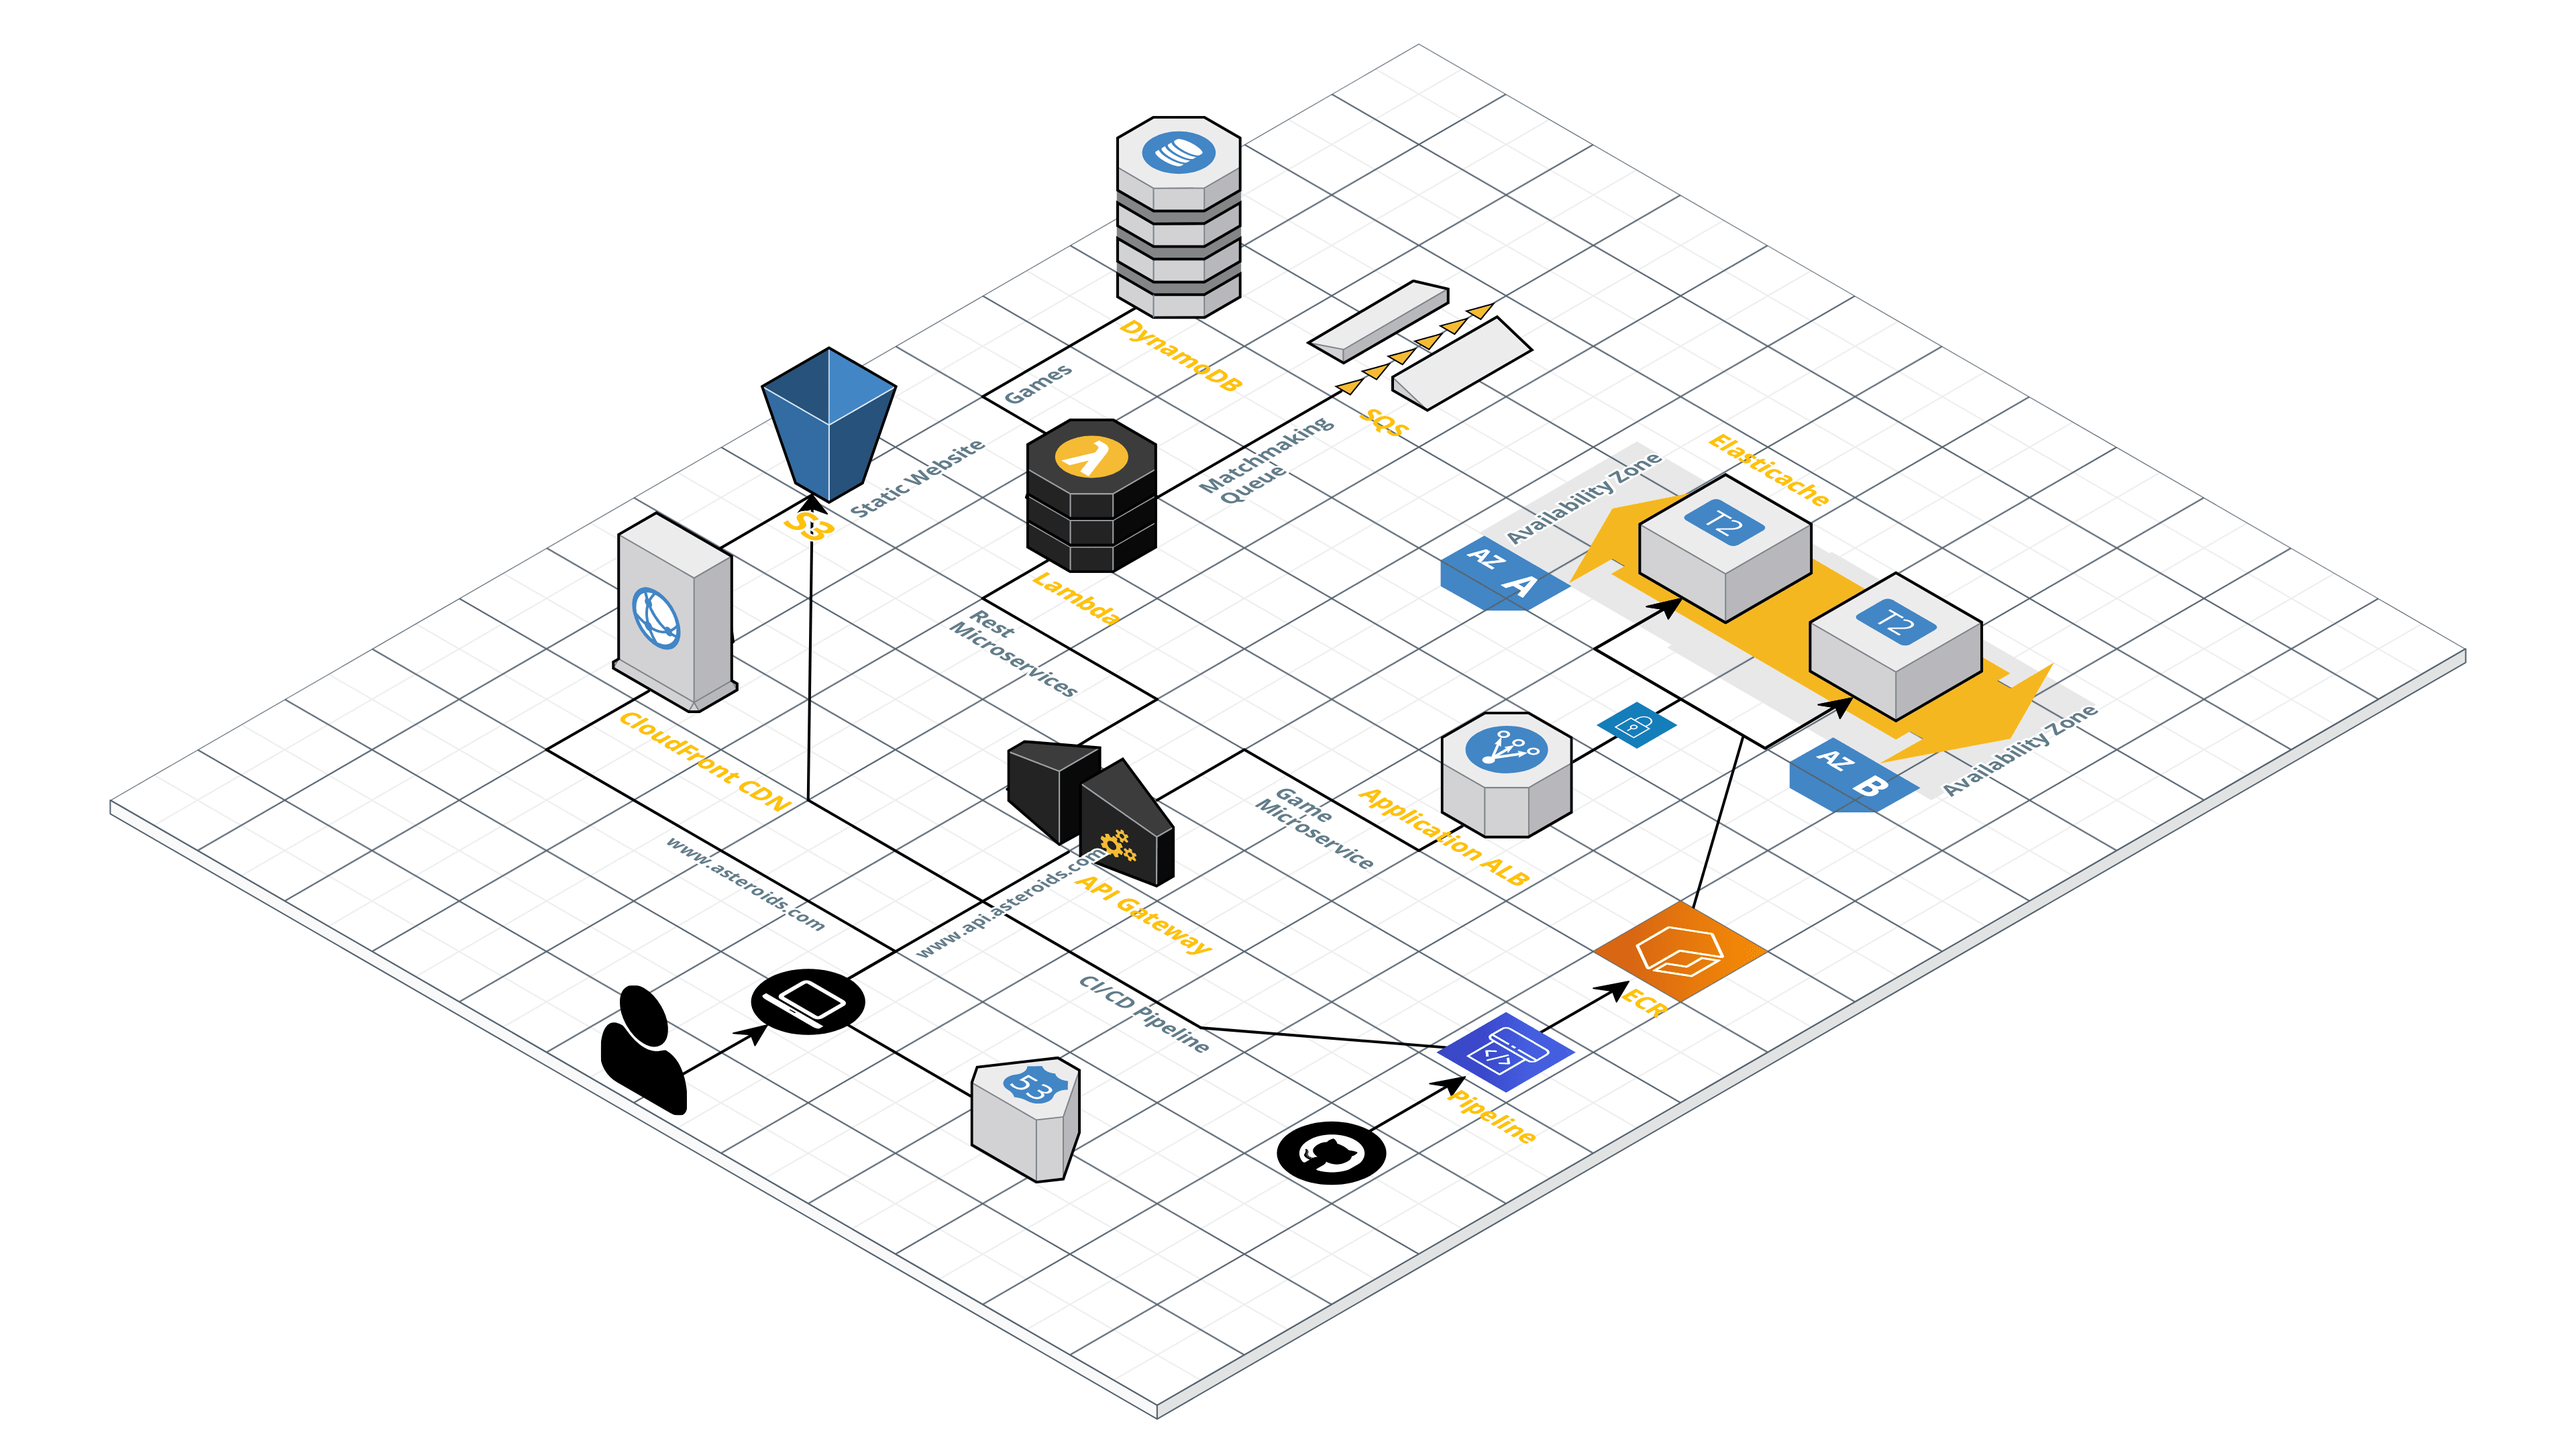
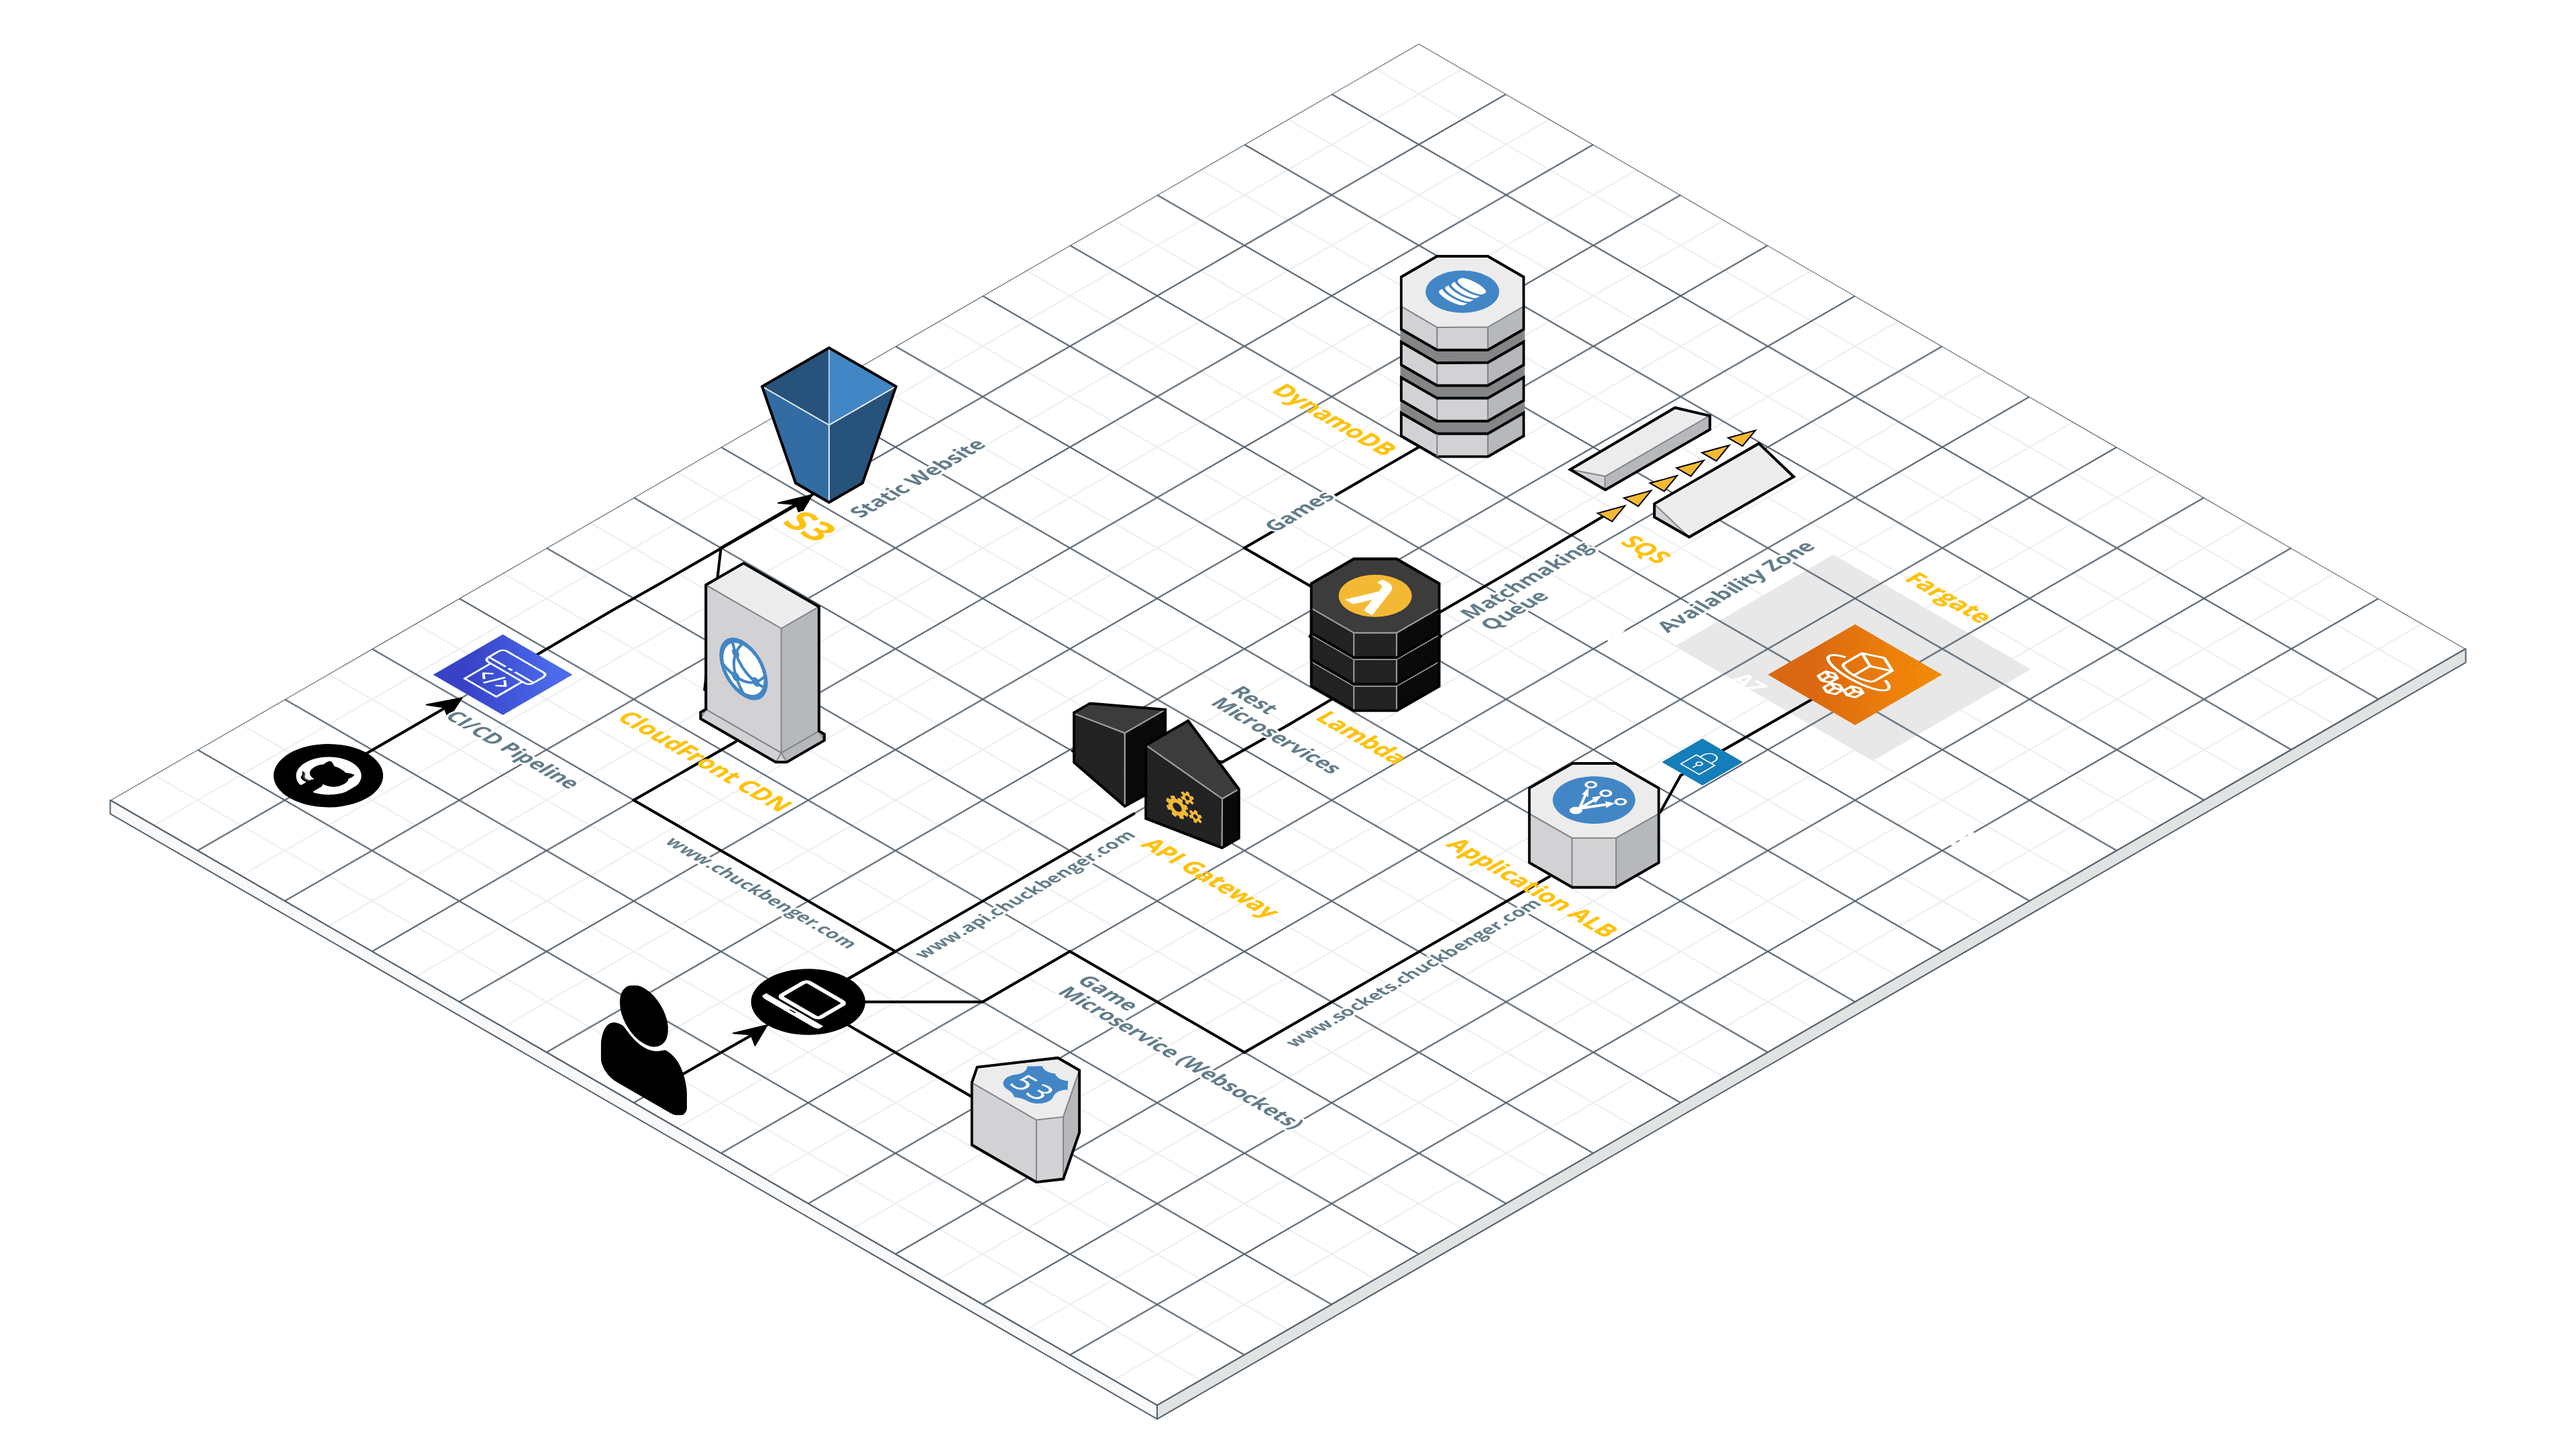
Updates to README

diff --git a/README.md b/README.md
@@ -4,7 +4,10 @@ Python backend for the Asteroids Multiplayer backend. The goal of this was to ex
 
 ## Architecture 
 
-Here is how the architecture of the application is setup
+Here is how the architecture of the application is setup.
+
+I would have made it high availability + put the game servers in a private subnet, but since this is something I want to leave up and not get a massive bill I decided to keep the design simple and cost efficient :)
+
 ![Image of Yaktocat](https://github.com/tkblackbelt/Asteroids-Multiplayer-Backend/raw/master/architecture.png)
 
 ## Authors
